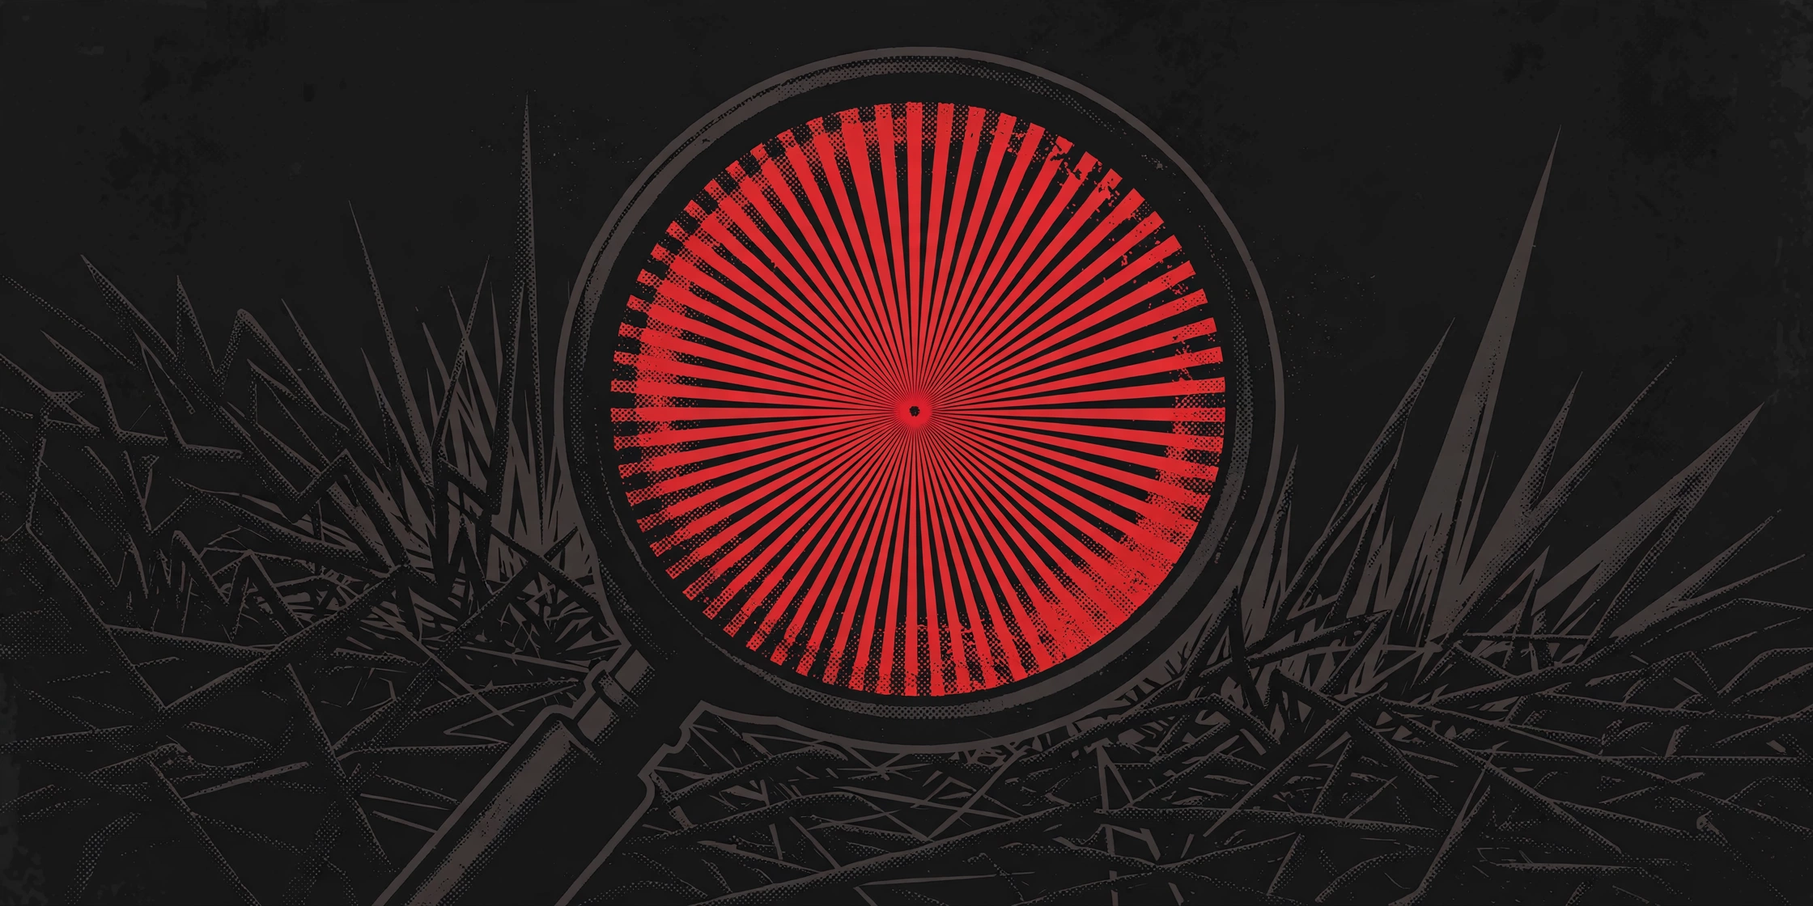
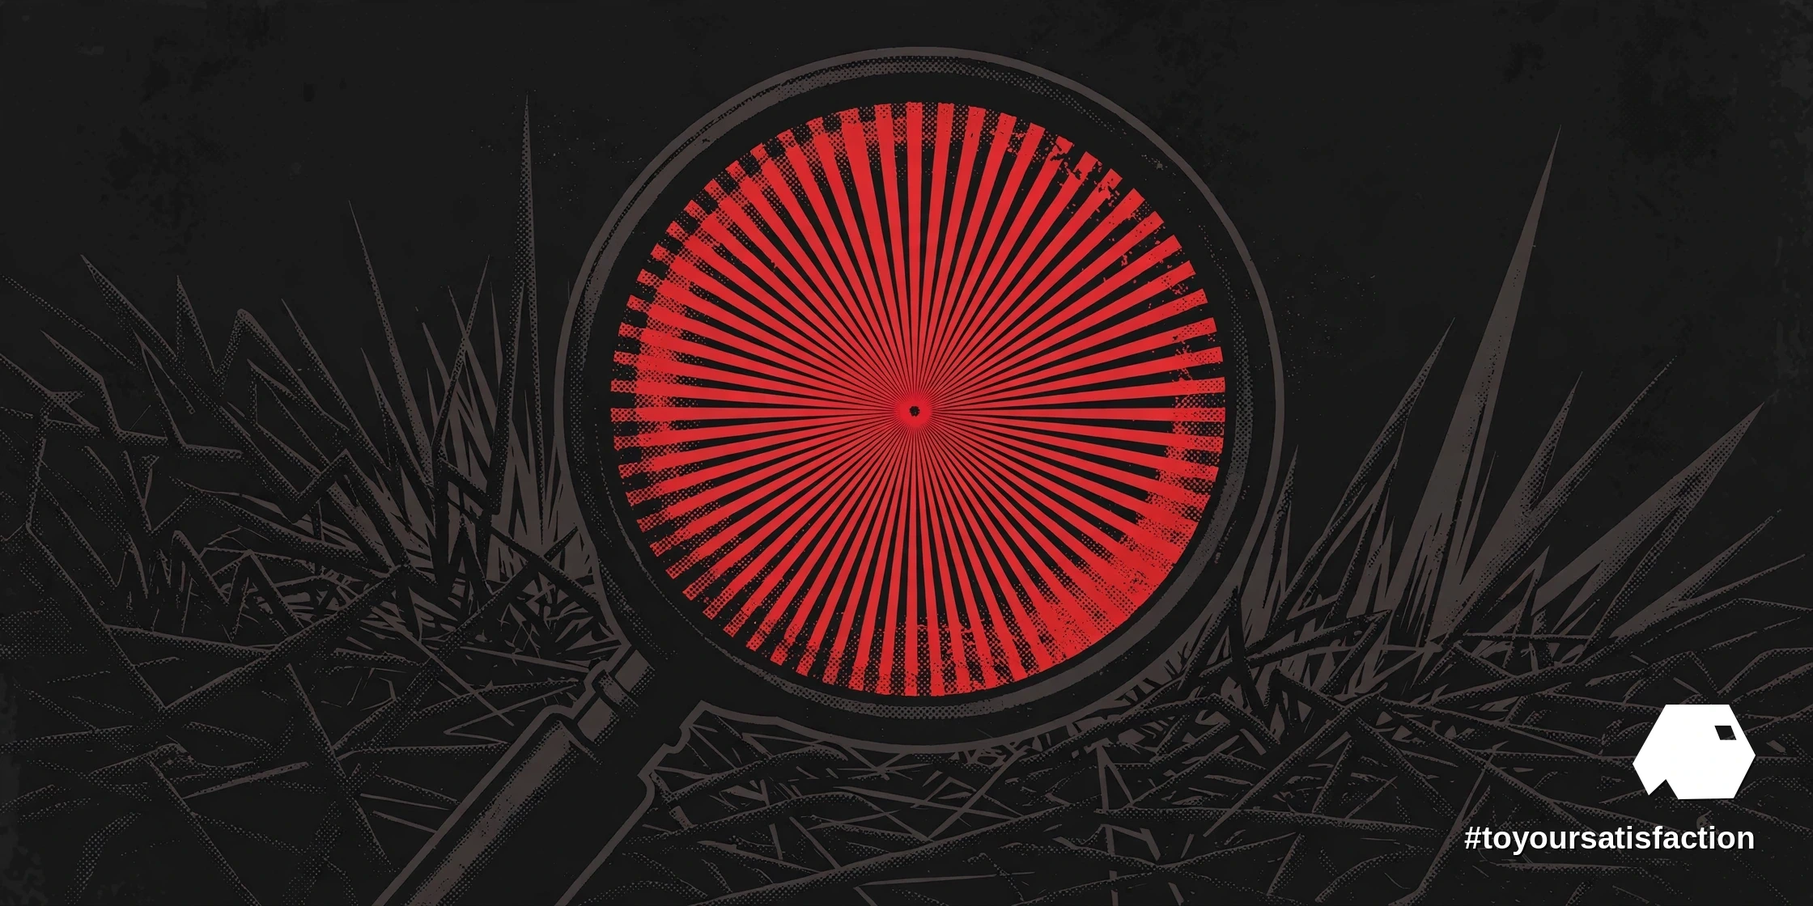
Magazine edition — batch 1

Changed region(s): [[0.8125, 0.7812, 0.9688, 0.9375], [0.4688, 0.5, 0.5312, 0.5312], [0.4688, 0.375, 0.5312, 0.4062]]

diff --git a/articles/first-hour-of-an-outage-is-search/index.html b/articles/first-hour-of-an-outage-is-search/index.html
@@ -13,34 +13,74 @@
 <meta property="og:image" content="https://oviainc.github.io/ai-services/articles/first-hour-of-an-outage-is-search/ovia-inc-first-hour-of-an-outage-is-search-hero.webp">
 <meta name="twitter:card" content="summary_large_image">
 <style>
-  :root{--bg:#0A0E14;--accent:#2E9BD6;--text:#FFFFFF;--muted:#B9C4CE;}
+  :root{--bg:#0A0E14;--panel:#101823;--text:#FFFFFF;--muted:#B9C4CE;--line:#22303E;--accent:#D6455B;}
   *{box-sizing:border-box;margin:0;padding:0;}
-  body{background:var(--bg);color:var(--text);font-family:-apple-system,BlinkMacSystemFont,"Segoe UI",Roboto,Helvetica,Arial,sans-serif;line-height:1.65;}
-  main{max-width:760px;margin:0 auto;padding:32px 20px 48px;}
-  .langbar{display:flex;justify-content:flex-end;align-items:center;gap:10px;margin-bottom:18px;}
-  .langbar label{color:var(--muted);font-size:.85rem;letter-spacing:.08em;text-transform:uppercase;}
-  .langbar select{background:#101823;color:var(--text);border:1px solid #1E2A36;border-radius:8px;padding:6px 10px;font-size:.95rem;max-width:60vw;}
-  .kicker{color:var(--accent);font-size:.85rem;letter-spacing:.18em;text-transform:uppercase;margin-bottom:14px;}
-  h1{font-size:2rem;line-height:1.25;margin-bottom:20px;font-weight:700;}
-  h2{font-size:1.3rem;line-height:1.35;margin:28px 0 12px;font-weight:700;color:var(--accent);}
-  img.hero{width:100%;height:auto;border-radius:10px;display:block;margin-bottom:28px;}
-  p{margin-bottom:16px;color:var(--text);}
-  p.tags{color:var(--accent);font-size:.95rem;}
-  ul.refs{list-style:none;margin-bottom:16px;}
-  ul.refs li{margin-bottom:10px;color:var(--muted);font-size:.95rem;}
+  body{background:var(--bg);color:var(--text);font-family:Georgia,'Times New Roman',Times,serif;line-height:1.6;}
+  a{color:var(--accent);}
+  .sans{font-family:-apple-system,BlinkMacSystemFont,"Segoe UI",Roboto,Helvetica,Arial,sans-serif;}
+  /* masthead zone over the article background image */
+  .mastzone{position:relative;overflow:hidden;border-bottom:1px solid var(--line);}
+  .mast-bg{position:absolute;inset:0;background-size:cover;background-position:center;opacity:.22;}
+  .mast-shade{position:absolute;inset:0;background:linear-gradient(180deg,rgba(10,14,20,.52),rgba(10,14,20,.94));}
+  .mast-inner{position:relative;max-width:1180px;margin:0 auto;padding:24px 22px 42px;}
+  .masthead{display:flex;align-items:center;gap:16px;flex-wrap:wrap;}
+  .masthead a.logo{display:block;line-height:0;}
+  .masthead img.logo{height:46px;width:auto;display:block;}
+  .wordmark{font-family:-apple-system,BlinkMacSystemFont,"Segoe UI",Roboto,Helvetica,Arial,sans-serif;letter-spacing:.34em;font-size:13px;text-transform:uppercase;color:var(--text);}
+  .langbar{display:flex;align-items:center;gap:10px;margin-left:auto;}
+  .langbar label{color:var(--muted);font-size:.8rem;letter-spacing:.08em;text-transform:uppercase;font-family:-apple-system,BlinkMacSystemFont,"Segoe UI",Roboto,Helvetica,Arial,sans-serif;}
+  .langbar select{background:#101823;color:var(--text);border:1px solid var(--line);border-radius:8px;padding:6px 10px;font-size:.95rem;max-width:52vw;}
+  .kicker{color:var(--accent);font-size:.85rem;letter-spacing:.3em;text-transform:uppercase;margin:44px 0 16px;font-family:-apple-system,BlinkMacSystemFont,"Segoe UI",Roboto,Helvetica,Arial,sans-serif;}
+  h1.display{font-family:"Arial Narrow Bold","Franklin Gothic Medium",Impact,Haettenschweiler,"Helvetica Neue Condensed Bold",sans-serif;text-transform:uppercase;font-weight:700;font-size:clamp(2.5rem,6.4vw,4.7rem);line-height:.99;letter-spacing:.004em;max-width:1020px;}
+  .standfirst{font-size:clamp(1.12rem,2.3vw,1.42rem);font-style:italic;color:var(--muted);max-width:780px;line-height:1.5;margin-top:18px;}
+  .byline{font-family:-apple-system,BlinkMacSystemFont,"Segoe UI",Roboto,Helvetica,Arial,sans-serif;font-size:.74rem;letter-spacing:.2em;text-transform:uppercase;color:var(--muted);border-top:1px solid var(--line);margin-top:24px;padding-top:14px;}
+  /* hero */
+  .hero-zone{max-width:1180px;margin:34px auto 0;padding:0 22px;}
+  figure.hero img{width:100%;height:auto;display:block;border-radius:2px;}
+  figcaption{font-family:-apple-system,BlinkMacSystemFont,"Segoe UI",Roboto,Helvetica,Arial,sans-serif;font-size:.78rem;color:var(--muted);padding-top:8px;letter-spacing:.03em;}
+  /* body columns */
+  main{max-width:1180px;margin:0 auto;padding:6px 22px 30px;}
+  .cols{margin-top:30px;font-size:1.16rem;line-height:1.75;}
+  @media (min-width:1020px){.cols{column-count:2;column-gap:54px;}}
+  .cols p{margin:0 0 20px;}
+  .cols p.first::first-letter{font-family:"Arial Narrow Bold","Franklin Gothic Medium",Impact,sans-serif;font-size:5.4rem;line-height:.78;float:left;padding:.55rem .9rem 0 0;color:var(--accent);font-weight:700;}
+  h2.sec{font-family:-apple-system,BlinkMacSystemFont,"Segoe UI",Roboto,Helvetica,Arial,sans-serif;font-size:.88rem;letter-spacing:.26em;text-transform:uppercase;color:var(--accent);margin:36px 0 14px;border-top:2px solid var(--accent);padding-top:14px;break-after:avoid;}
+  h2.sec:first-child{margin-top:0;}
+  blockquote.pull{column-span:all;font-size:clamp(1.55rem,3.6vw,2.35rem);line-height:1.3;font-style:italic;text-align:center;color:var(--accent);margin:42px 0;padding:4px 12px;}
+  figure.body{margin:4px 0 22px;break-inside:avoid;}
+  figure.wide{column-span:all;margin:30px 0 34px;}
+  figure.body img,figure.wide img{width:100%;height:auto;display:block;border-radius:2px;}
+  .keybox{break-inside:avoid;background:var(--panel);border:1px solid var(--line);border-top:3px solid var(--accent);padding:18px 20px 10px;margin:0 0 24px;font-family:-apple-system,BlinkMacSystemFont,"Segoe UI",Roboto,Helvetica,Arial,sans-serif;}
+  .keybox h3{font-size:.78rem;letter-spacing:.24em;text-transform:uppercase;color:var(--accent);margin-bottom:10px;}
+  .keybox li{margin:0 0 9px 18px;font-size:.95rem;line-height:1.5;}
+  /* references + tags + footer */
+  .refs-sec{margin-top:44px;border-top:1px solid var(--line);padding-top:24px;}
+  .refs-sec h2{font-family:-apple-system,BlinkMacSystemFont,"Segoe UI",Roboto,Helvetica,Arial,sans-serif;font-size:.88rem;letter-spacing:.26em;text-transform:uppercase;color:var(--accent);margin-bottom:14px;}
+  ul.refs{list-style:none;}
+  ul.refs li{margin-bottom:10px;color:var(--muted);font-size:.95rem;font-family:-apple-system,BlinkMacSystemFont,"Segoe UI",Roboto,Helvetica,Arial,sans-serif;}
   ul.refs a{color:var(--accent);text-decoration:none;word-break:break-all;}
   ul.refs a:hover{text-decoration:underline;}
-  footer{border-top:1px solid #1E2A36;margin-top:36px;padding-top:20px;font-size:.95rem;color:var(--muted);}
+  p.tags{color:var(--accent);font-size:.95rem;margin-top:26px;font-family:-apple-system,BlinkMacSystemFont,"Segoe UI",Roboto,Helvetica,Arial,sans-serif;}
+  footer{border-top:1px solid var(--line);margin-top:38px;padding:22px 0 10px;font-size:.95rem;color:var(--muted);font-family:-apple-system,BlinkMacSystemFont,"Segoe UI",Roboto,Helvetica,Arial,sans-serif;}
+  footer .frow{display:flex;align-items:center;gap:14px;flex-wrap:wrap;}
+  footer img.flogo{height:30px;width:auto;display:block;}
   footer a{color:var(--accent);text-decoration:none;}
   footer a:hover{text-decoration:underline;}
-  @media (max-width:600px){h1{font-size:1.55rem;}main{padding:22px 16px 36px;}}
+  footer .ftag{color:var(--text);letter-spacing:.06em;}
+  @media (max-width:640px){.mast-inner{padding:18px 16px 30px;}main,.hero-zone{padding-left:16px;padding-right:16px;}h1.display{font-size:2.35rem;}.cols{font-size:1.08rem;}}
 </style>
 </head>
 <body>
-<main>
-<div class="langbar">
-          <label for="langPick" data-tr>Language</label>
-          <select id="langPick" aria-label="Choose your language">
+<header class="mastzone">
+  <div class="mast-bg" style="background-image:url('ovia-inc-first-hour-of-an-outage-is-search-background.webp')"></div>
+  <div class="mast-shade"></div>
+  <div class="mast-inner">
+    <div class="masthead">
+      <a class="logo" href="../../" aria-label="Ovia Inc — home"><img class="logo" src="../../assets/ovia-inc-logo-white.webp" alt="Ovia Inc — logo"></a>
+      <span class="wordmark">Ovia Inc — Magazine</span>
+      <div class="langbar">
+        <label for="langPick" data-tr>Language</label>
+        <select id="langPick" aria-label="Choose your language">
             <option value="en">English</option>
             <option value="fr">Français</option>
             <option value="es">Español</option>
@@ -118,29 +158,61 @@
             <option value="lo">ລາວ</option>
             <option value="mn">Монгол</option>
           </select>
-        </div>
-  <p class="kicker" data-tr>Ovia Inc — Articles</p>
-  <h1 data-tr>The First Hour of an Outage Is a Search Problem</h1>
-  <img class="hero" src="ovia-inc-first-hour-of-an-outage-is-search-hero.webp" alt="Ovia Inc — A bold crimson and charcoal duotone poster: a magnifying lens over tangled signal spikes, the traces under the lens resolving into one bright radiating root point">
-  <h2 data-tr>The acquisition</h2>
-  <p data-tr>On October 28, 2026, Freshworks announced the acquisition of Robusta Dev, an incident-intelligence company founded in 2021, for terms that were not disclosed. Robusta began as a Kubernetes troubleshooting tool and was later rebuilt around HolmesGPT, the company's open-source agent. The technology now heads into Freshservice, the Freshworks IT service management platform, with findings and timelines flowing into FireHydrant, the incident-orchestration platform Freshworks already owns — diagnosis, response and prevention joined into one operating loop instead of three separate hand-offs.</p>
-  <h2 data-tr>Sense, reason, recommend</h2>
-  <p data-tr>The working pattern is a three-beat investigation. When an anomaly appears, Robusta's agents examine monitoring data, infrastructure telemetry, logs and recent code and configuration changes. The engine then identifies the likely root cause, maps the blast radius across dependent services, and shows the evidence behind the conclusion. Finally, the system recommends remediation steps inside guardrails the customer defines — and engineers review and approve before anything reaches production. Investigations draw on the customer's own environment: business-service context, configuration-database dependencies and change histories from Freshservice, so a diagnosis reflects the estate as built, not a generic textbook.</p>
-  <h2 data-tr>Evidence before action</h2>
-  <p data-tr>The design choice that matters most is the order of operations: evidence first, action second, approval between the two. Anyone who has worked a major incident recognises the real bottleneck. The fix is rarely the slow part; the slow part is the first hour — assembling clues from monitoring tools, alert logs, ticket histories and deployment records, on calls, under pressure, while the clock on the status page keeps moving. Automating the search compresses the hour. Keeping the recommendation inside customer guardrails, with a human approving the change, keeps the automation honest about where machine confidence ends.</p>
-  <h2 data-tr>The token-cost problem</h2>
-  <p data-tr>Scale imposes a discipline of its own. Enterprise environments generate more raw events than any team — human or artificial — can investigate one by one, and Robusta's leadership names the cost of processing those events as a real constraint on the design. An agent that reasons at length over every alert would spend its way past the value of the answers. Triage therefore becomes an economic act: cheap signals first, deep reasoning reserved for the anomalies that earn it, and evidence packaged so a responder can verify a conclusion in minutes rather than re-derive the whole search. Token budgets, in incident work, are operations budgets.</p>
-  <h2 data-tr>What to watch</h2>
-  <p data-tr>The Technology Coordinator years at Staywired, from 2014 to 2022, were spent inside exactly this arithmetic — alerts, logs, changes and the long first hour — and the operations discipline behind NVIDIA-Certified Professional: AI Operations applies the same standard to agents that good on-call culture applies to people: show the evidence, state the confidence, keep the approval step sacred. Watch how deeply the Freshservice integration lands, whether the evidence trails hold up under real incident review, and whether buyers report shorter first hours — the metric this category will ultimately be judged by.</p>
-  <p data-tr>One further detail signals intent. The acquisition was framed inside the workflow, not beside it: findings surface in Freshservice, and incident context flows into FireHydrant, where responders already coordinate. Tooling that arrives inside the tools on the desk gets used; tooling that asks teams to open one more console during a crisis gets admired and skipped. Freshworks is buying an investigation habit as much as an engine, and the placement of the product inside the existing incident loop is precisely why the habit has a chance to form.</p>
-  <h2 data-tr>References</h2>
-  <ul class="refs">
-    <li><span data-tr>Freshworks — “Freshworks Acquires Robusta to Bring AI-Powered Incident Investigation and Prevention to Freshservice”, October 28, 2026:</span> <a href="https://www.freshworks.com/theworks/company-news/freshworks-robusta-acquisition/?utm_source=chatgpt.com">https://www.freshworks.com/theworks/company-news/freshworks-robusta-acquisition/?utm_source=chatgpt.com</a></li>
-    <li><span data-tr>Elets CIO — “Freshworks Acquires Robusta: AI Agents for IT Outages”, October 31, 2026:</span> <a href="https://cio.eletsonline.com/artificial-intelligence/freshworks-acquires-robusta-ai-sre-agents-incident-investigation-freshservice/76545/">https://cio.eletsonline.com/artificial-intelligence/freshworks-acquires-robusta-ai-sre-agents-incident-investigation-freshservice/76545/</a></li>
-  </ul>
+      </div>
+    </div>
+    <p class="kicker" data-tr>Ovia Inc — AI Operations · Incident Response</p>
+    <h1 class="display" data-tr>The First Hour of an Outage Is a Search Problem</h1>
+    <p class="standfirst" data-tr>Freshworks buys Robusta and joins diagnosis, response and prevention into one loop, because the slow part of an outage was always the search.</p>
+    <p class="byline" data-tr>Ovia Inc · Studio and Lab · 5 min read</p>
+  </div>
+</header>
+<div class="hero-zone">
+  <figure class="hero">
+    <img src="ovia-inc-first-hour-of-an-outage-is-search-hero.webp" alt="Ovia Inc — A bold crimson and charcoal duotone poster: a magnifying lens over tangled signal spikes, the traces under the lens resolving into one bright radiating root point">
+    <figcaption data-tr>Search first: tangled signals resolving toward a root cause. Image: Ovia Inc</figcaption>
+  </figure>
+</div>
+<main>
+  <div class="cols">
+<p class="first" data-tr>Every responder knows the shape of a major outage. The alert fires, the bridge opens, and then the real work begins: finding the small set of facts that explain a very large failure. The fix, once the cause is known, is often the shortest part of the night.</p>
+<p data-tr>On October 28, 2026, Freshworks announced the acquisition of Robusta Dev, an incident-intelligence company founded in 2021, for terms that were not disclosed. Robusta began as a Kubernetes troubleshooting tool and was later rebuilt around HolmesGPT, the company open-source agent. The technology now heads into Freshservice, the Freshworks IT service management platform, with findings and timelines flowing into FireHydrant, the incident-orchestration platform Freshworks already owns.</p>
+<p data-tr>We read the deal as a statement about where incident time actually goes. Diagnosis, response and prevention are being joined into one operating loop instead of three separate hand-offs, and the joining point is search: telemetry, logs, changes and context, assembled fast enough to matter while the clock on the status page keeps moving.</p>
+<aside class="keybox"><h3 data-tr>Key points</h3><ul><li data-tr>Freshworks acquired Robusta Dev, announced October 28, 2026, for terms that were not disclosed.</li><li data-tr>Robusta agents search telemetry, logs and recent changes, name the likely root cause and map the blast radius.</li><li data-tr>Evidence comes first, and engineers review and approve before anything reaches production.</li><li data-tr>Token cost is a design constraint: cheap signals first, deep reasoning reserved for anomalies that earn the spend.</li></ul></aside>
+<h2 class="sec" data-tr>01 · The acquisition</h2>
+<p data-tr>The path Robusta travelled explains the fit. A Kubernetes troubleshooting tool lives close to the machinery, where alerts are raw and context is scarce. Rebuilt around HolmesGPT, the same instinct became an agent that investigates rather than merely reports. Freshworks is buying that investigation habit and placing the habit inside Freshservice, where service teams already work, with incident context flowing into FireHydrant, where responders already coordinate.</p>
+<p data-tr>Placement is not a detail. Tooling that arrives inside the tools on the desk gets used; tooling that asks teams to open one more console during a crisis gets admired and skipped. The acquisition was framed inside the workflow, not beside the workflow, and that framing gives the technology a chance to become routine practice rather than a demonstration.</p>
+<figure class="body"><img src="ovia-inc-first-hour-of-an-outage-is-search-body-1.webp" alt="Ovia Inc — A magnifying lens over tangled telemetry traces resolving into one crimson root point, in a crimson and charcoal duotone screen-print style"><figcaption data-tr>Tangled traces under the lens, resolving toward one root point. Image: Ovia Inc</figcaption></figure>
+<h2 class="sec" data-tr>02 · Sense, reason, recommend</h2>
+<p data-tr>The working pattern is a three-beat investigation. When an anomaly appears, Robusta agents examine monitoring data, infrastructure telemetry, logs and recent code and configuration changes. The engine then identifies the likely root cause, maps the blast radius across dependent services, and shows the evidence behind the conclusion. Finally, the system recommends remediation steps inside guardrails the customer defines, and engineers review and approve before anything reaches production.</p>
+<p data-tr>Investigations draw on the customer own environment: business-service context, configuration-database dependencies and change histories from Freshservice, so a diagnosis reflects the estate as built, not a generic textbook. That grounding is the difference between a plausible story and a useful one. A root cause that ignores the change made an hour ago, or the dependency nobody documented, sends responders down a corridor the evidence never supported.</p>
+<blockquote class="pull" data-tr>The fix is rarely the slow part; the slow part is the first hour.</blockquote>
+<h2 class="sec" data-tr>03 · Evidence before action</h2>
+<p data-tr>The design choice that matters most is the order of operations: evidence first, action second, approval between the two. Anyone who has worked a major incident recognises the real bottleneck. The slow part is assembling clues from monitoring tools, alert logs, ticket histories and deployment records, on calls, under pressure. Automating the search compresses the hour. Keeping the recommendation inside customer guardrails, with a human approving the change, keeps the automation honest about where machine confidence ends.</p>
+<figure class="wide"><img src="ovia-inc-first-hour-of-an-outage-is-search-body-2.webp" alt="Ovia Inc — An operations wall of monitoring panels with one crimson evidence trail winding through, in a crimson and charcoal duotone screen-print style"><figcaption data-tr>One evidence trail, carried through the wall of signals. Image: Ovia Inc</figcaption></figure>
+<p data-tr>We hold a simple standard for agent work in operations, and the pattern here meets the standard: show the evidence, state the confidence, keep the approval step sacred. An agent that presents a conclusion with the trail attached can be corrected quickly when the trail is wrong. An agent that presents only a verdict asks for faith, and faith is not an operations discipline.</p>
+<h2 class="sec" data-tr>04 · The token-cost problem</h2>
+<p data-tr>Scale imposes a discipline of its own. Enterprise environments generate more raw events than any team, human or artificial, can investigate one by one, and Robusta leadership names the cost of processing those events as a real constraint on the design. An agent that reasons at length over every alert would spend its way past the value of the answers. Triage therefore becomes an economic act: cheap signals first, deep reasoning reserved for the anomalies that earn the spend, and evidence packaged so a responder can verify a conclusion in minutes rather than re-derive the whole search. Token budgets, in incident work, are operations budgets.</p>
+<p data-tr>The caveat cuts both ways, and honesty requires naming the other edge. Cheap triage can also discard the faint signal that mattered, and a blast-radius map is only as good as the dependency data beneath the map. The technology earns trust the slow way, incident by incident, when the evidence trails hold up under review after the bridge closes.</p>
+<h2 class="sec" data-tr>05 · What to watch</h2>
+<p data-tr>The Technology Coordinator years at Staywired, from 2014 to 2022, were spent inside exactly this arithmetic: alerts, logs, changes and the long first hour. The operations discipline behind NVIDIA-Certified Professional: AI Operations applies the same standard to agents that good on-call culture applies to people. Watch how deeply the Freshservice integration lands, whether the evidence trails hold up under real incident review, and whether buyers report shorter first hours, the metric this category will ultimately be judged by.</p>
+<p data-tr>We will be watching for the unglamorous evidence: post-incident reviews that cite the agent trail, responders who reach for the investigation before the manual search, and first hours that shrink in published accounts. Search was always the hidden labour of incident response. The category now forming simply admits the fact, and builds the machine for the admission.</p>
+
+  </div>
+  <div class="refs-sec">
+    <h2 data-tr>References</h2>
+    <ul class="refs">
+<li><span data-tr>Freshworks — “Freshworks Acquires Robusta to Bring AI-Powered Incident Investigation and Prevention to Freshservice”, October 28, 2026:</span> <a href="https://www.freshworks.com/theworks/company-news/freshworks-robusta-acquisition/?utm_source=chatgpt.com">https://www.freshworks.com/theworks/company-news/freshworks-robusta-acquisition/?utm_source=chatgpt.com</a></li>
+<li><span data-tr>Elets CIO — “Freshworks Acquires Robusta: AI Agents for IT Outages”, October 31, 2026:</span> <a href="https://cio.eletsonline.com/artificial-intelligence/freshworks-acquires-robusta-ai-sre-agents-incident-investigation-freshservice/76545/">https://cio.eletsonline.com/artificial-intelligence/freshworks-acquires-robusta-ai-sre-agents-incident-investigation-freshservice/76545/</a></li>
+
+    </ul>
+  </div>
   <p class="tags">#AIOperations #SRE #IncidentResponse #toyoursatisfaction</p>
   <footer>
-    <p><a href="../../">Ovia Inc</a> · Source on GitHub: <a href="https://github.com/Oviainc/ai-services">github.com/Oviainc/ai-services</a></p>
+    <div class="frow">
+      <a href="../../" aria-label="Ovia Inc — home"><img class="flogo" src="../../assets/ovia-inc-logo-white.webp" alt="Ovia Inc — logo"></a>
+      <span><a href="../../">Ovia Inc</a> · <span data-tr>Source on GitHub:</span> <a href="https://github.com/Oviainc/ai-services">github.com/Oviainc/ai-services</a></span>
+      <span class="ftag">#toyoursatisfaction</span>
+    </div>
   </footer>
 </main>
 <script>
